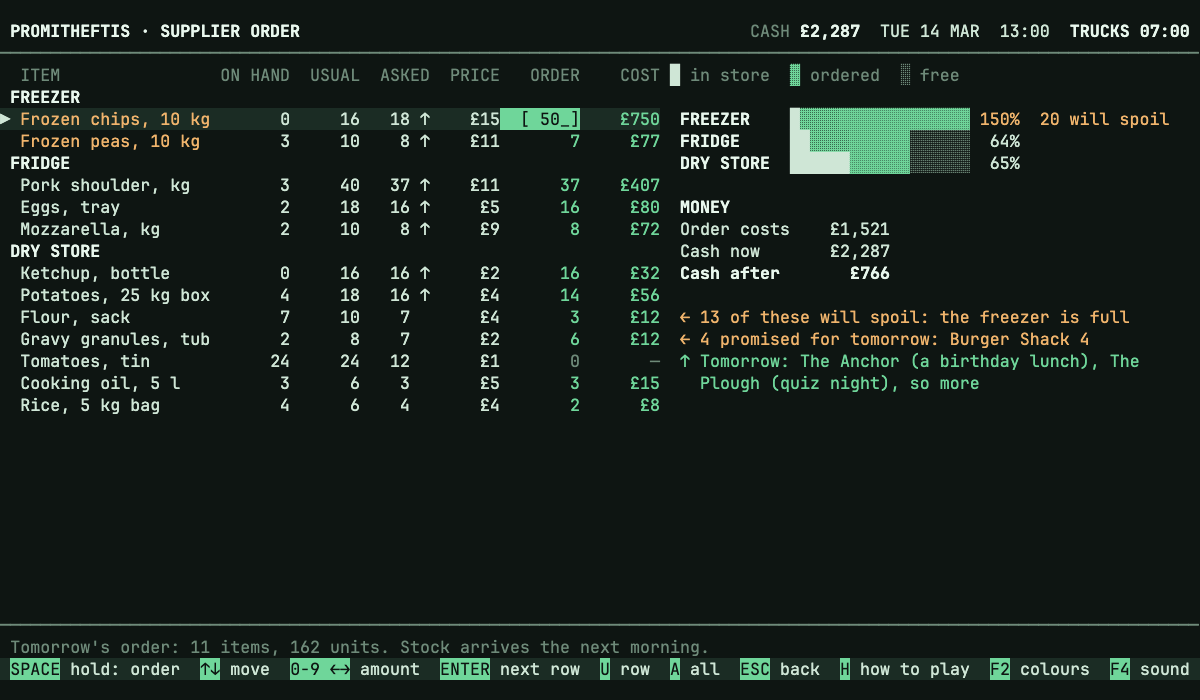
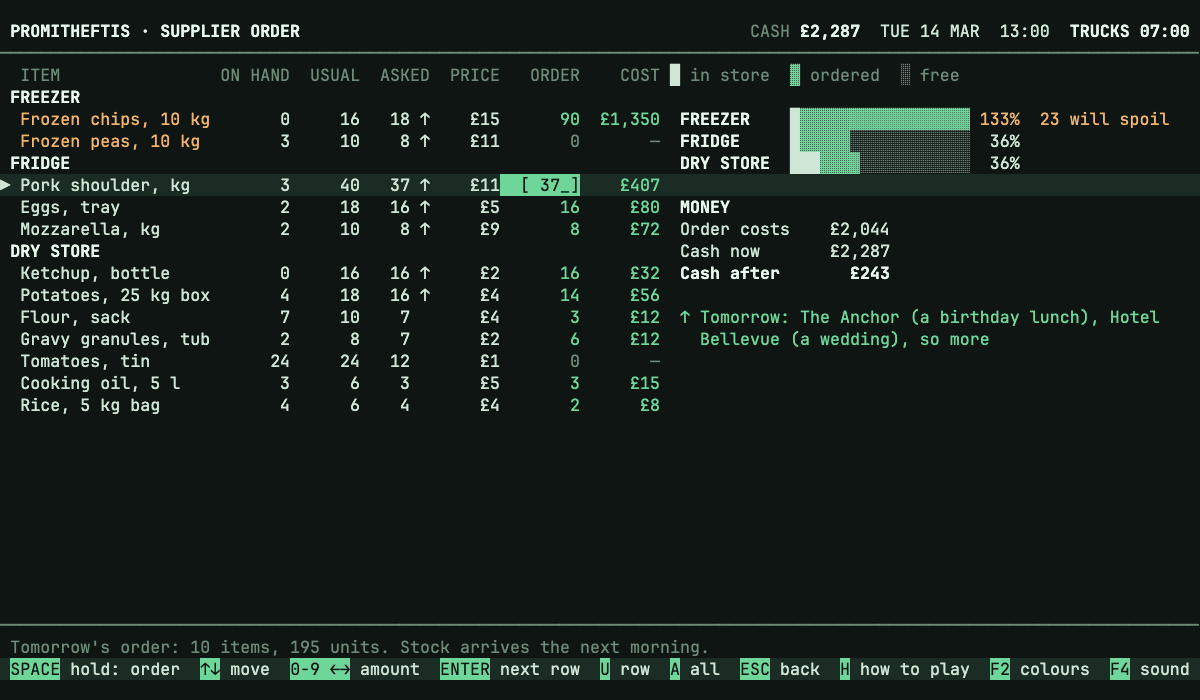
feat(game): make the fill-everything key stop near what a room holds and give the small morning roomier stores
A on the supplier order cuts every row of a room by the same share when the usual amounts would not fit, and fills a
little past full so the spoil warning can still be read. The small morning's rooms are bigger, so pressing A without
looking makes a modest profit with fewer pleased clients, and thinking still pays clearly more.

diff --git a/tests/spoilage.test.ts b/tests/spoilage.test.ts
@@ -14,12 +14,12 @@ const small = () => runFromMorning(smallMorning());
 
 describe('a room that is full overnight', () => {
   it('keeps what fits and loses the rest of the delivery, which is paid for all the same', () => {
-    // The small freezer holds 120 space: 40 units of chips or peas.
-    const next = nextDay(small(), outcome({ left: { chips: 10 }, ordered: { chips: 50, peas: 10 } }));
-    expect(next.stock.chips).toBe(40);
+    // The small freezer holds 210 space: 70 units of chips or peas.
+    const next = nextDay(small(), outcome({ left: { chips: 10 }, ordered: { chips: 70, peas: 10 } }));
+    expect(next.stock.chips).toBe(70);
     expect(next.stock.peas).toBe(0);
-    expect(next.spoiled).toEqual([{ item: 'chips', units: 20 }, { item: 'peas', units: 10 }]);
-    expect(next.delivery).toEqual({ items: 2, units: 60 });
+    expect(next.spoiled).toEqual([{ item: 'chips', units: 10 }, { item: 'peas', units: 10 }]);
+    expect(next.delivery).toEqual({ items: 2, units: 80 });
   });
 
   it('spoils nothing when everything fits, and the other rooms are left alone', () => {
@@ -30,11 +30,11 @@ describe('a room that is full overnight', () => {
   });
 
   it('uses the room as it was when the delivery came: a bigger room bought tonight helps from the day after', () => {
-    const grown = nextDay(small(), outcome({ ordered: { chips: 50 }, growth: { kind: 'room', room: 'freezer' } }));
-    expect(grown.stock.chips).toBe(40);
+    const grown = nextDay(small(), outcome({ ordered: { chips: 80 }, growth: { kind: 'room', room: 'freezer' } }));
+    expect(grown.stock.chips).toBe(70);
     expect(grown.capacity.freezer).toBe(SMALL_ROOM_CAPACITY.freezer + ROOM_GROWTH.freezer);
-    const again = nextDay(grown, outcome({ ordered: { chips: 50 } }));
-    expect(again.stock.chips).toBe(50);
+    const again = nextDay(grown, outcome({ ordered: { chips: 80 } }));
+    expect(again.stock.chips).toBe(80);
     expect(again.spoiled).toEqual([]);
   });
 
@@ -101,7 +101,7 @@ describe('the room offered at the end of the day', () => {
 
 describe('a saved run with rooms that spoil', () => {
   it('keeps what spoiled and what the notes announced', () => {
-    const run = nextDay(small(), outcome({ ordered: { chips: 50 }, ahead: [{ client: "Rosa's", event: 'halfterm' }] }));
+    const run = nextDay(small(), outcome({ ordered: { chips: 90 }, ahead: [{ client: "Rosa's", event: 'halfterm' }] }));
     expect(run.spoiled.length).toBeGreaterThan(0);
     expect(decodeRun(encodeRun(run, 5))).toEqual({ run, daySeed: 5 });
   });
@@ -121,8 +121,8 @@ describe('a saved run with rooms that spoil', () => {
 });
 
 describe('the first morning', () => {
-  it('has rooms that fill to about two thirds for the small morning and about three quarters for the big', () => {
-    for (const [load, low, high] of [[smallMorning, 55, 70], [bigMorning, 62, 85]] as const) {
+  it('has rooms that fill to about two fifths for the small morning and about three quarters for the big', () => {
+    for (const [load, low, high] of [[smallMorning, 35, 50], [bigMorning, 62, 85]] as const) {
       const m = load();
       for (const kept of ['freezer', 'fridge', 'dry'] as const) {
         const used = m.items.filter((i) => i.kept === kept).reduce((sum, i) => sum + (m.usual[i.id] ?? 0) * spaceOf(i.id), 0);

diff --git a/tests/rooms.test.ts b/tests/rooms.test.ts
@@ -59,12 +59,12 @@ describe('room space', () => {
     expect(supply.roomSpace('freezer')).toMatchObject({ overBy: 0, overPct: 0 });
   });
 
-  it('fills the small morning\'s rooms to about two thirds when everything is ordered up to the usual amounts', () => {
+  it('leaves the small morning\'s rooms about two fifths full when everything is ordered up to the usual amounts', () => {
     const small = new Supply(smallMorning(), {});
     small.fillAll();
     for (const kept of KEPT_ORDER) {
-      expect(small.roomSpace(kept).pct).toBeGreaterThanOrEqual(60);
-      expect(small.roomSpace(kept).pct).toBeLessThanOrEqual(70);
+      expect(small.roomSpace(kept).pct).toBeGreaterThanOrEqual(35);
+      expect(small.roomSpace(kept).pct).toBeLessThanOrEqual(50);
     }
   });
 
@@ -112,11 +112,11 @@ describe('what a room can hold', () => {
 
   it('shows on the supply rows which items spoil and how many, and the room total', () => {
     const supply = new Supply(smallMorning(), { chips: 10, peas: 5 });
-    supply.set(supply.rows.findIndex((r) => r.item.id === 'chips'), 50);
+    supply.set(supply.rows.findIndex((r) => r.item.id === 'chips'), 60);
     supply.set(supply.rows.findIndex((r) => r.item.id === 'peas'), 10);
-    // 120 space = 40 units: the 15 in store stay, 25 of the 50 chips fit, and all the peas ordered are turned away.
-    expect(supply.spoilage('freezer')).toEqual(new Map([['chips', 25], ['peas', 10]]));
-    expect(supply.roomSpace('freezer').spoils).toBe(35);
+    // 210 space = 70 units: the 15 in store stay, 55 of the 60 chips fit, and all the peas ordered are turned away.
+    expect(supply.spoilage('freezer')).toEqual(new Map([['chips', 5], ['peas', 10]]));
+    expect(supply.roomSpace('freezer').spoils).toBe(15);
     expect(supply.roomSpace('fridge').spoils).toBe(0);
     supply.set(supply.rows.findIndex((r) => r.item.id === 'chips'), 5);
     expect(supply.spoilage('freezer').size).toBe(0);

diff --git a/src/game/supply.ts b/src/game/supply.ts
@@ -58,6 +58,9 @@ export function callNotes(calls: readonly Call[], answers: ReadonlyMap<number, n
  * Tomorrow's order to the supplier: an amount for every item, grouped by where
  * it is kept. Rows are numbered in the order they are listed on the screen.
  */
+/** A fills a room to this much of its space, a little over, so the warning is still there to be read. */
+const FILL_ALL_TO = 1.15;
+
 export class Supply {
   readonly rows: SupplyRow[];
   readonly notes: Map<string, CallNote[]>;
@@ -150,8 +153,28 @@ export class Supply {
     return this.set(r, this.gap(r));
   }
 
+  /**
+   * Fills every row at zero up to its gap, but no further than its room can hold: where the gaps together would not
+   * fit, each is cut by the same share. A row with an amount is left as it is, and takes its space first.
+   */
   fillAll(): void {
-    for (let r = 0; r < this.count; r++) this.fillRow(r);
+    const rooms = new Set(this.rows.map((row) => row.kept));
+    for (const kept of rooms) {
+      const empty: number[] = [];
+      let free = this.capacity[kept] * FILL_ALL_TO;
+      let need = 0;
+      this.rows.forEach((row, r) => {
+        if (row.kept !== kept) return;
+        const space = spaceOf(row.item.id);
+        free -= (row.onHand + this.amount(r)) * space;
+        if (this.amount(r) === 0) {
+          empty.push(r);
+          need += this.gap(r) * space;
+        }
+      });
+      const share = need > free ? Math.max(0, free) / need : 1;
+      for (const r of empty) this.set(r, Math.floor(this.gap(r) * share));
+    }
   }
 
   /** How many units of each item in a room will spoil tomorrow because the room has no space for them. */

diff --git a/tests/balance.test.ts b/tests/balance.test.ts
@@ -31,8 +31,15 @@ describe.each(['small', 'big'] as const)('the %s morning', (kind) => {
     const blind = summarise(runs(kind, 'blind'), FROM).profit;
     const careful = summarise(runs(kind, 'careful'), FROM).profit;
     expect(careful).toBeGreaterThan(0);
-    // At least 15% more on the small morning, a good deal more on the big.
-    expect(blind).toBeLessThanOrEqual(careful * (kind === 'small' ? 0.85 : 0.7));
+    // Thinking is worth at least a quarter more than pressing buttons, on either morning.
+    expect(blind).toBeLessThanOrEqual(careful * 0.8);
+  });
+
+  it('keeps blind play calm: it still makes money and most clients are pleased, only less than for a careful player', () => {
+    const blind = summarise(runs(kind, 'blind'), FROM);
+    expect(blind.profit).toBeGreaterThan(0);
+    expect(blind.pleased).toBeGreaterThan(0.5);
+    expect(blind.minCash).toBeGreaterThan(0);
   });
 
   it('leaves a careful day in profit', () => {
@@ -58,7 +65,7 @@ describe.each(['small', 'big'] as const)('the %s morning', (kind) => {
   });
 
   it('makes rooms matter: stock spoils for the player who never looks at the bars, and not for the one who does', () => {
-    expect(summarise(runs(kind, 'blind'), FROM).spoiled).toBeGreaterThan(10);
+    expect(summarise(runs(kind, 'blind'), FROM).spoiled).toBeGreaterThan(5);
     expect(summarise(runs(kind, 'careful'), FROM).spoiled).toBeLessThan(1);
   });
 

diff --git a/tests/supply.test.ts b/tests/supply.test.ts
@@ -99,6 +99,17 @@ describe('the supplier order', () => {
     s.rows.forEach((row, r) => expect(s.amount(r)).toBe(Math.max(0, row.usual - row.onHand)));
   });
 
+  it('does not fill a room far past its space: when the usual amounts would not fit, every row in it is cut by the same share', () => {
+    const m = smallMorning();
+    const grown = { ...m, usual: Object.fromEntries(Object.entries(m.usual).map(([id, n]) => [id, n * 4])) };
+    const s = new Supply(grown, {});
+    s.fillAll();
+    for (const kept of KEPT_ORDER) expect(s.roomSpace(kept).pct).toBeLessThanOrEqual(115);
+    const cut = s.rows.map((_, r) => s.amount(r) / s.gap(r)).filter((share) => share < 1);
+    expect(cut.length).toBeGreaterThan(0);
+    expect(Math.max(...cut) - Math.min(...cut)).toBeLessThan(0.1);
+  });
+
   it('leaves a row that already has an amount alone when filling it', () => {
     const s = supply();
     s.set(0, 7);

diff --git a/src/ui/help.ts b/src/ui/help.ts
@@ -86,7 +86,7 @@ export const HELP_PAGES: readonly HelpPage[] = [
         text:
           'At 13:00 you order stock for tomorrow. Every item is grouped by where it is kept (freezer, fridge, dry store), with what is on hand, ' +
           'the usual daily amount, what clients asked for today and what you order. Type a number or use {←→}; {ENTER} confirms a row and moves on; {U} fills a row up to the ' +
-          'usual amount and {A} fills every row. Hold {SPACE} to place the order and end the day; {ESC} goes back to the result.',
+          'usual amount and {A} fills every row, though a little short of what a full room holds. Hold {SPACE} to place the order and end the day; {ESC} goes back to the result.',
       },
       {
         head: 'DEMAND SWINGS',

diff --git a/src/game/rooms.ts b/src/game/rooms.ts
@@ -4,7 +4,7 @@ import type { Kept } from './types';
 export const ROOM_CAPACITY: Record<Kept, number> = { freezer: 340, fridge: 600, dry: 920 };
 
 /** How much each store room holds when the run begins as the small morning: a smaller business has smaller rooms. */
-export const SMALL_ROOM_CAPACITY: Record<Kept, number> = { freezer: 120, fridge: 150, dry: 300 };
+export const SMALL_ROOM_CAPACITY: Record<Kept, number> = { freezer: 210, fridge: 270, dry: 540 };
 
 /** How much space a bigger room gains, in space units. */
 export const ROOM_GROWTH: Record<Kept, number> = { freezer: 100, fridge: 150, dry: 200 };
